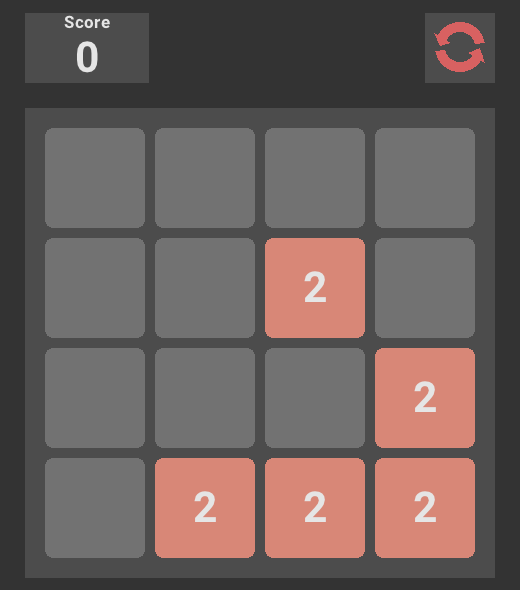
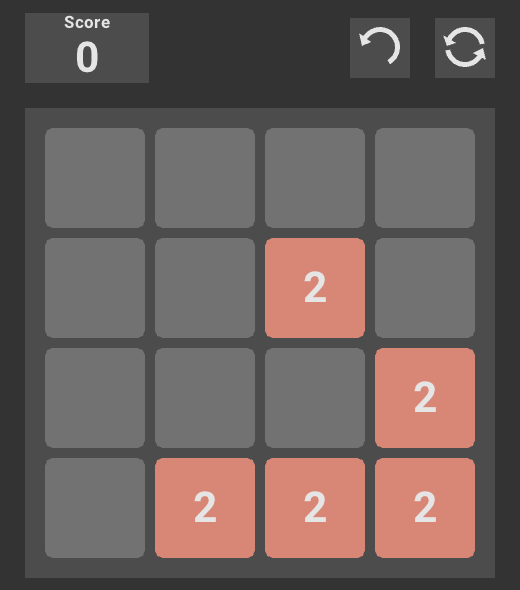
[feat] add a button to undo one move

Changed region(s): [[0.6462, 0.0, 0.9538, 0.1525]]

diff --git a/src/gui-version.c b/src/gui-version.c
@@ -23,8 +23,9 @@
 #define SCORE_HEIGHT 70
 #define SCORE_PAD 50
 #define GAME_HEIGHT (SCORE_HEIGHT + FIELD_GAP + FIELD_HEIGHT)
-#define BUTTON_SIZE SCORE_HEIGHT
-#define ARROW_THICK 10
+#define BUTTON_SIZE 60
+#define BUTTON_GAP 25
+#define ARROW_THICK 5
 #define ARROW_PAD 10
 
 
@@ -40,11 +41,11 @@
     #define SCORE_VALUE_TEXT_SIZE 50
 #endif
 
-#define EMPTY_CELL_COLOR ColorFromHSV(0, 0.00f, 0.45f) 
-#define BACKGROUND_COLOR ColorFromHSV(0, 0.00f, 0.20f) 
-#define BOARD_COLOR      ColorFromHSV(0, 0.00f, 0.30f) 
+#define EMPTY_CELL_COLOR ColorFromHSV(0, 0.00f, 0.45f)
+#define BACKGROUND_COLOR ColorFromHSV(0, 0.00f, 0.20f)
+#define BOARD_COLOR      ColorFromHSV(0, 0.00f, 0.30f)
 #define TEXT_COLOR       ColorFromHSV(0, 0.00f, 0.90f)
-#define ARROW_COLOR      ColorFromHSV(0, 0.55f, 0.85f)
+#define ARROW_COLOR      ColorFromHSV(0, 0.00f, 0.90f)
 
 void raylib_js_set_entry(void (*entry)(void));
 
@@ -84,7 +85,7 @@ static int move_buffer_size = 0;
 static int move_buffer_start = 0;
 
 
-void _draw_arrow(int x, int y, float angle, float angle2, Color arrow_color) 
+void _draw_arrow(int x, int y, float angle, float angle2, Color arrow_color)
 {
     int arrow_radius = (BUTTON_SIZE - ARROW_PAD*2) / 2;
     int xx = x + cosf(angle) * (arrow_radius + 5);
@@ -118,7 +119,7 @@ void draw_cell_value(int cell_value, int x, int y)
 
 Color get_cell_color(int cell_value)
 {
-    int hue = (int)(0 + log2(cell_value) * 10) % 360; 
+    int hue = (int)(0 + log2(cell_value) * 10) % 360;
     Color color = ColorFromHSV(hue, 0.45f, 0.85f);
     return color;
 }
@@ -127,7 +128,7 @@ Color get_cell_color(int cell_value)
 void draw_move_cells(void)
 {
     int sx = GetScreenWidth()/2 - FIELD_WIDTH/2 + FIELD_MARGIN;
-    int sy = GetScreenHeight()/2 - GAME_HEIGHT/2 + SCORE_HEIGHT + FIELD_GAP + FIELD_MARGIN;   
+    int sy = GetScreenHeight()/2 - GAME_HEIGHT/2 + SCORE_HEIGHT + FIELD_GAP + FIELD_MARGIN;
 
     for (int cy = 0; cy < ROWS; cy++) {
         for (int cx = 0; cx < COLUMNS; cx++) {
@@ -143,10 +144,10 @@ void draw_move_cells(void)
 
             if (game_state == GAME_MOVE_CELLS_RIGHT) {
                 int end_x = sx + ((cx + offset) * CELL_SIZE) + ((cx+offset) * CELL_GAP);
-                x = Lerp(start_x, end_x, in_out_cubic(game_time/max_time));            
+                x = Lerp(start_x, end_x, in_out_cubic(game_time/max_time));
             } else if (game_state == GAME_MOVE_CELLS_LEFT) {
                 int end_x = sx + ((cx-offset) * CELL_SIZE) + ((cx-offset) * CELL_GAP);
-                x = Lerp(start_x, end_x, in_out_cubic(game_time/max_time)); 
+                x = Lerp(start_x, end_x, in_out_cubic(game_time/max_time));
             } else if (game_state == GAME_MOVE_CELLS_UP) {
                 int end_y = sy + ((cy-offset) * CELL_SIZE) + ((cy-offset) * CELL_GAP);
                 y = Lerp(start_y, end_y, in_out_cubic(game_time/max_time));
@@ -154,7 +155,7 @@ void draw_move_cells(void)
                 int end_y = sy + ((cy+offset) * CELL_SIZE) + ((cy+offset) * CELL_GAP);
                 y = Lerp(start_y, end_y, in_out_cubic(game_time/max_time));
             }
-            
+
             Rectangle cell_rect = {x, y, CELL_SIZE, CELL_SIZE};
             DrawRectangleRounded(cell_rect, ROUNDNESS, 0, get_cell_color(cell_value));
             if (cell_value != 0) {
@@ -167,8 +168,8 @@ void draw_move_cells(void)
 void draw_board(void)
 {
     int sx = GetScreenWidth()/2 - FIELD_WIDTH/2 + FIELD_MARGIN;
-    int sy = GetScreenHeight()/2 - GAME_HEIGHT/2 + SCORE_HEIGHT + FIELD_GAP + FIELD_MARGIN;   
-    
+    int sy = GetScreenHeight()/2 - GAME_HEIGHT/2 + SCORE_HEIGHT + FIELD_GAP + FIELD_MARGIN;
+
     Rectangle board_rec = {sx - FIELD_MARGIN, sy - FIELD_MARGIN,  FIELD_WIDTH, FIELD_HEIGHT};
     DrawRectangleRec(board_rec, BOARD_COLOR);
 
@@ -178,15 +179,15 @@ void draw_board(void)
             int x = sx + (cx * CELL_SIZE) + (cx * CELL_GAP);
             int y = sy + (cy * CELL_SIZE) + (cy * CELL_GAP);
             Rectangle cell_rect = {x, y, CELL_SIZE, CELL_SIZE};
-            if (cell_value != 0) { 
+            if (cell_value != 0) {
                 if (game_state != GAME_PLAY) {
                     int x_offset = movement_at(cx, cy);
-                    if (x_offset > 0) { 
+                    if (x_offset > 0) {
                         DrawRectangleRounded(cell_rect, ROUNDNESS, 0, EMPTY_CELL_COLOR);
                         continue;
                     };
                 }
-                
+
                 DrawRectangleRounded(cell_rect, ROUNDNESS, 0, get_cell_color(cell_value));
                 draw_cell_value(cell_value, x, y);
 
@@ -203,12 +204,12 @@ void draw_score(void)
 {
     static char text_buffer[4096] = {0};
     int sx = GetScreenWidth()/2 - FIELD_WIDTH/2;
-    int sy = GetScreenHeight()/2 - GAME_HEIGHT/2;   
+    int sy = GetScreenHeight()/2 - GAME_HEIGHT/2;
 
 
     int score = get_score();
     stbsp_snprintf(text_buffer, sizeof(text_buffer), "%d", score);
-    
+
     Vector2 text_size = MeasureTextEx(score_label_font, "Score", SCORE_LABEL_TEXT_SIZE, 1);
     Vector2 value_text_size = MeasureTextEx(default_font, text_buffer, SCORE_VALUE_TEXT_SIZE, 1);
     int score_width = value_text_size.x + SCORE_PAD*2;
@@ -235,8 +236,8 @@ void queue_move(Move move)
 bool dequeue_move(Move *move)
 {
     if (move_buffer_size == 0) return false;
-    
-    *move = move_buffer[move_buffer_start]; 
+
+    *move = move_buffer[move_buffer_start];
     move_buffer_size--;
     move_buffer_start = (move_buffer_start + 1) % 100;
     return true;
@@ -247,6 +248,7 @@ void restart_game(void)
     reset_score();
     clear_board();
     add_random_cell();
+    save_prev_board();
     save_back_board();
     game_state = GAME_PLAY;
 }
@@ -255,49 +257,77 @@ void restart_game(void)
 void capture_input(void)
 {
     if (IsKeyPressed(KEY_D) || IsKeyPressed(KEY_RIGHT)) {
-        queue_move(MOVE_RIGHT); 
+        queue_move(MOVE_RIGHT);
     }
 
     if (IsKeyPressed(KEY_S) || IsKeyPressed(KEY_DOWN)) {
-        queue_move(MOVE_DOWN); 
+        queue_move(MOVE_DOWN);
     }
 
     if (IsKeyPressed(KEY_A) || IsKeyPressed(KEY_LEFT)) {
-        queue_move(MOVE_LEFT); 
+        queue_move(MOVE_LEFT);
     }
 
     if (IsKeyPressed(KEY_W) || IsKeyPressed(KEY_UP)) {
-        queue_move(MOVE_UP); 
+        queue_move(MOVE_UP);
     }
-        
+
     if (IsKeyPressed(KEY_R)) {
         restart_game();
-    } 
+    }
+
+    if (IsKeyPressed(KEY_P)) {
+        cancel_move();
+    }
+}
+
+void draw_cancel_move_button(void)
+{
+    int x = GetScreenWidth()/2 + FIELD_WIDTH/2 - BUTTON_SIZE*2 - BUTTON_GAP;
+    int y = GetScreenHeight()/2 - GAME_HEIGHT/2 + SCORE_HEIGHT/2 - BUTTON_SIZE/2;
+
+    int arrow_radius = (BUTTON_SIZE - ARROW_PAD*2) / 2;
+    Vector2 button_center = {.x = x + BUTTON_SIZE/2, .y = y + BUTTON_SIZE/2};
+    Rectangle button_rec = {x, y, BUTTON_SIZE, BUTTON_SIZE};
+    bool hoverover = CheckCollisionPointRec(GetMousePosition(), button_rec);
+    Color button_color = hoverover ? ARROW_COLOR : BOARD_COLOR;
+    DrawRectangleRec(button_rec, button_color);
+
+    Color arrow_color = hoverover ? BOARD_COLOR : ARROW_COLOR;
+    Vector2 center = {.x = x + BUTTON_SIZE/2,
+                      .y = y + BUTTON_SIZE/2 - 1};
+    DrawRing(center, arrow_radius-ARROW_THICK, arrow_radius, -150, 60, 20, arrow_color);
+
+    _draw_arrow(button_center.x, button_center.y, -145*PI/180, -175*PI/180, arrow_color);
+
+    if (IsMouseButtonPressed(MOUSE_LEFT_BUTTON) && hoverover) {
+        cancel_move();
+    }
 }
 
 void draw_restart_button(void)
 {
     int x = GetScreenWidth()/2 + FIELD_WIDTH/2 - BUTTON_SIZE;
-    int y = GetScreenHeight()/2 - GAME_HEIGHT/2;   
+    int y = GetScreenHeight()/2 - GAME_HEIGHT/2 + SCORE_HEIGHT/2 - BUTTON_SIZE/2;
 
     int arrow_radius = (BUTTON_SIZE - ARROW_PAD*2) / 2;
     Vector2 button_center = {.x = x + BUTTON_SIZE/2, .y = y + BUTTON_SIZE/2};
     Rectangle button_rec = {x, y, BUTTON_SIZE, BUTTON_SIZE};
-    bool hoverover = CheckCollisionPointRec(GetMousePosition(), button_rec); 
+    bool hoverover = CheckCollisionPointRec(GetMousePosition(), button_rec);
     Color button_color = hoverover ? ARROW_COLOR : BOARD_COLOR;
     DrawRectangleRec(button_rec, button_color);
 
     Color arrow_color = hoverover ? BOARD_COLOR : ARROW_COLOR;
-    Vector2 center = {.x = x + BUTTON_SIZE/2, 
+    Vector2 center = {.x = x + BUTTON_SIZE/2,
                       .y = y + BUTTON_SIZE/2 - 1};
     DrawRing(center, arrow_radius-ARROW_THICK, arrow_radius, -160, -10, 20, arrow_color);
     DrawRing(center, arrow_radius-ARROW_THICK, arrow_radius, 170, 20, 20, arrow_color);
-      
+
     _draw_arrow(button_center.x, button_center.y, -150*PI/180, -175*PI/180, arrow_color);
     _draw_arrow(button_center.x, button_center.y, 30*PI/180, 0*PI/180, arrow_color);
 
     if (IsMouseButtonPressed(MOUSE_LEFT_BUTTON) && hoverover) {
-        restart_game(); 
+        restart_game();
     }
 }
 
@@ -306,11 +336,13 @@ void game_frame(void)
 {
     BeginDrawing();
         ClearBackground(BACKGROUND_COLOR);
-        
-        draw_board();           
-        draw_score(); 
+
+        draw_board();
+        draw_score();
         draw_restart_button();
-        capture_input(); 
+        draw_cancel_move_button();
+
+        capture_input();
 
         if (game_state == GAME_PLAY) {
             Move move;
@@ -318,27 +350,31 @@ void game_frame(void)
             switch (move) {
                 case MOVE_RIGHT: {
                     save_back_board();
-                    if (swipe_board_right()) { 
+                    save_prev_board();
+                    if (swipe_board_right()) {
                         game_state = GAME_MOVE_CELLS_RIGHT;
-                    }              
+                    }
                 } break;
                 case MOVE_DOWN: {
                     save_back_board();
+                    save_prev_board();
                     if (swipe_board_down()) {
                         game_state = GAME_MOVE_CELLS_DOWN;
-                    }            
+                    }
                 } break;
                 case MOVE_LEFT: {
                     save_back_board();
-                    if (swipe_board_left()) { 
+                    save_prev_board();
+                    if (swipe_board_left()) {
                         game_state = GAME_MOVE_CELLS_LEFT;
-                    }           
+                    }
                 } break;
                 case MOVE_UP: {
                     save_back_board();
-                    if (swipe_board_up()) { 
+                    save_prev_board();
+                    if (swipe_board_up()) {
                         game_state = GAME_MOVE_CELLS_UP;
-                    }        
+                    }
                 } break;
                 default: break;
             }
@@ -356,7 +392,7 @@ void game_frame(void)
 }
 
 
-int main(void) 
+int main(void)
 {
 #ifndef PLATFORM_WEB
     srand(time(0));
@@ -365,13 +401,14 @@ int main(void)
 #endif
 
     InitWindow(FIELD_WIDTH + FIELD_GAP*2, FIELD_HEIGHT + FIELD_GAP*2 + SCORE_HEIGHT, "2048");
-    SetTargetFPS(60);    
-    
+    SetTargetFPS(60);
+
     default_font = LoadFontEx(font_path, CELL_VALUE_DEFAULT_FONT_SIZE, NULL, 0);
     score_label_font = LoadFontEx(font_path, SCORE_LABEL_TEXT_SIZE, NULL, 0);
-    
+
     add_random_cell();
     save_back_board();
+    save_prev_board();
 
 #ifdef PLATFORM_WEB
     raylib_js_set_entry(game_frame);

diff --git a/src/2048.c b/src/2048.c
@@ -9,7 +9,9 @@
 
 static int board[ROWS][COLUMNS]          = {0};
 static int back_board[ROWS][COLUMNS]     = {0};
+static int prev_board[ROWS][COLUMNS]     = {0};
 static int movement_board[ROWS][COLUMNS] = {0};
+static int prev_score                    = 0;
 static int score                         = 0;
 
 int get_score(void)
@@ -34,6 +36,24 @@ int movement_at(int x, int y) {
     return movement_board[y][x];
 }
 
+void restore_prev_board(void)
+{
+    for (int y = 0; y < BOARD_SIZE; ++y) {
+        for (int x = 0; x < BOARD_SIZE; ++x) {
+            board[y][x] = prev_board[y][x];
+        }
+    }
+}
+
+void save_prev_board(void)
+{
+    for (int y = 0; y < BOARD_SIZE; ++y) {
+        for (int x = 0; x < BOARD_SIZE; ++x) {
+            prev_board[y][x] = board[y][x];
+        }
+    }
+}
+
 void save_back_board(void)
 {
     for (int y = 0; y < BOARD_SIZE; ++y) {
@@ -41,6 +61,13 @@ void save_back_board(void)
             back_board[y][x] = board[y][x];
         }
     }
+}
+
+void cancel_move(void)
+{
+    score = prev_score;
+    restore_prev_board();
+    save_back_board();
 }
 
 void clear_movement_board(void) {
@@ -133,6 +160,7 @@ void rotate_board(void)
 
 bool swipe_board_right(void)
 {
+    prev_score = score;
     clear_movement_board();
     bool is_board_swiped = false;
     for (int y = 0; y < ROWS; ++y) {

diff --git a/src/2048.h b/src/2048.h
@@ -11,7 +11,9 @@ void set_cell_at(int x, int y, int value);
 int movement_at(int x, int y);
 int get_score(void);
 void reset_score(void);
+void cancel_move(void);
 void save_back_board(void);
+void save_prev_board(void);
 void clear_board(void);
 bool swipe_board_right(void);
 bool swipe_board_left(void);
